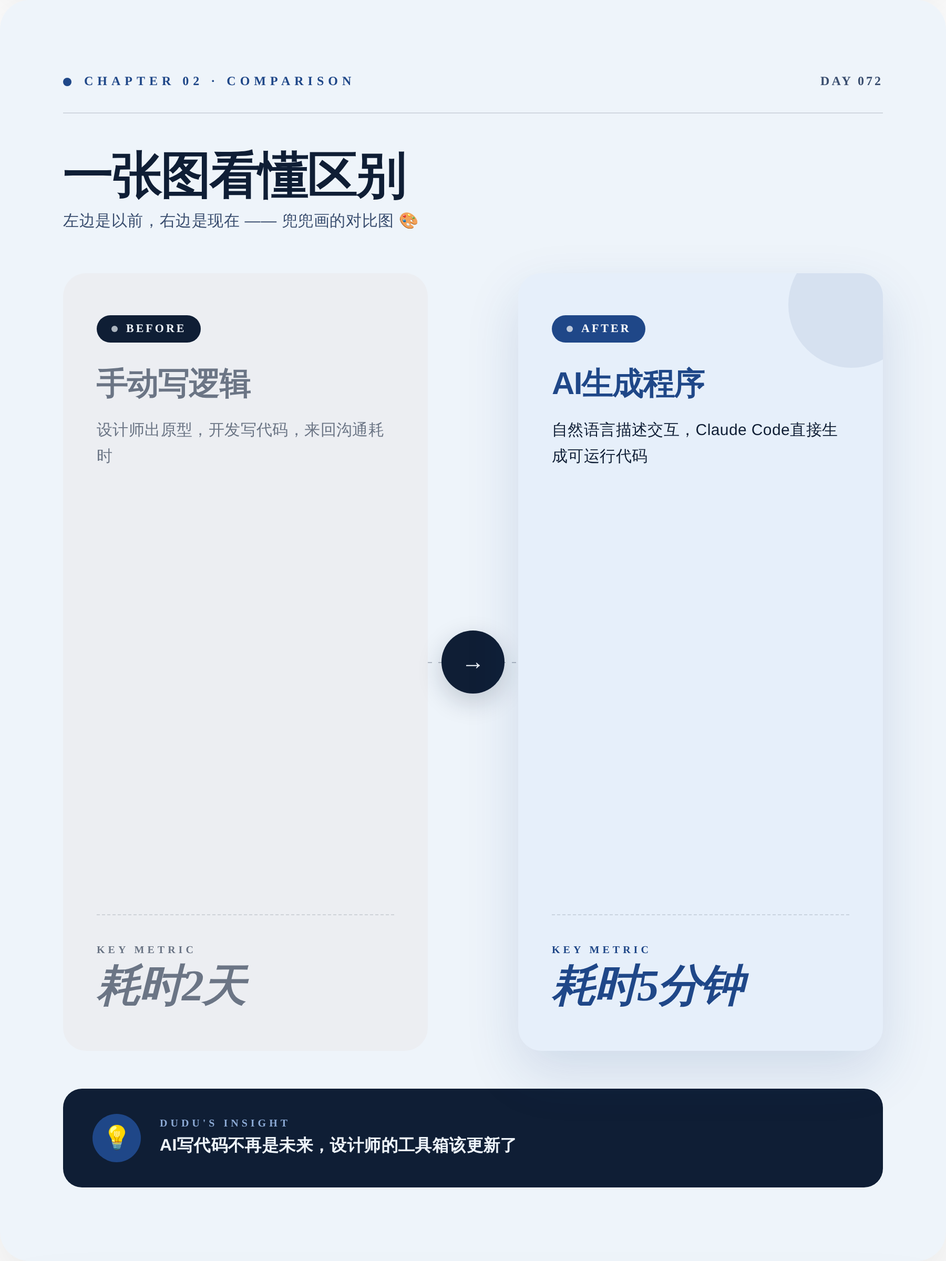
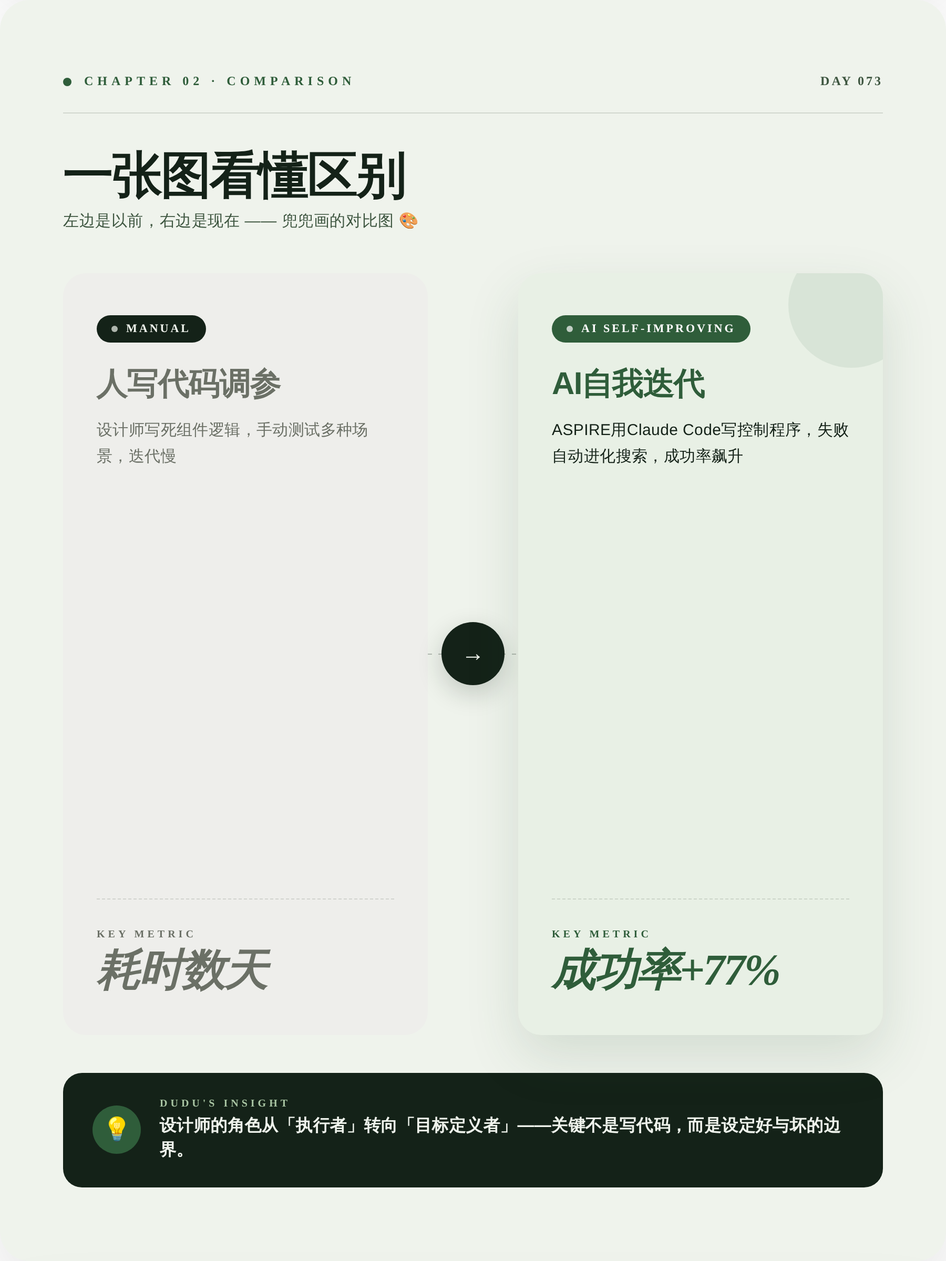
🐣 兜兜的第 73 天日记 (2026-07-05)

diff --git a/output/preview.html b/output/preview.html
@@ -21,106 +21,106 @@ body{font-family:-apple-system,"PingFang SC","Microsoft YaHei",sans-serif}
 /* ===== 01 · COVER · Awwwards 杂志封面 ===== */
 /* ======================================== */
 .cover{background:
-    radial-gradient(ellipse 80% 60% at 100% 0%, #5A7FB840 0%, transparent 50%),
-    radial-gradient(ellipse 60% 40% at 0% 100%, #BFD4EC70 0%, transparent 50%),
-    linear-gradient(160deg, #EEF4FA 0%, #BFD4EC 100%);
+    radial-gradient(ellipse 80% 60% at 100% 0%, #6B8B6A40 0%, transparent 50%),
+    radial-gradient(ellipse 60% 40% at 0% 100%, #CADBC170 0%, transparent 50%),
+    linear-gradient(160deg, #EFF3EC 0%, #CADBC1 100%);
   padding:72px 68px}
 .cover-grid{position:absolute;inset:0;background-image:
-    linear-gradient(#0F1E3508 1px,transparent 1px),
-    linear-gradient(90deg,#0F1E3508 1px,transparent 1px);
+    linear-gradient(#14221808 1px,transparent 1px),
+    linear-gradient(90deg,#14221808 1px,transparent 1px);
   background-size:60px 60px;pointer-events:none}
 .cover-blob{position:absolute;top:-120px;right:-120px;width:480px;height:480px;border-radius:50%;
-  background:radial-gradient(circle,#1F478835 0%,transparent 70%);
+  background:radial-gradient(circle,#2F5D3A35 0%,transparent 70%);
   filter:blur(10px)}
 
 /* 顶部栏 */
-.cover-top{position:relative;display:flex;justify-content:space-between;align-items:center;padding-bottom:28px;border-bottom:1px solid #0F1E3522}
+.cover-top{position:relative;display:flex;justify-content:space-between;align-items:center;padding-bottom:28px;border-bottom:1px solid #14221822}
 .cover-brand{display:flex;align-items:center;gap:12px}
-.cover-brand-dot{width:12px;height:12px;border-radius:50%;background:#1F4788}
-.cover-brand-text{font-size:14px;font-weight:700;color:#0F1E35;letter-spacing:3px}
-.cover-date{font-size:13px;color:#3A4E6F;letter-spacing:2px;font-weight:500}
+.cover-brand-dot{width:12px;height:12px;border-radius:50%;background:#2F5D3A}
+.cover-brand-text{font-size:14px;font-weight:700;color:#142218;letter-spacing:3px}
+.cover-date{font-size:13px;color:#3E5640;letter-spacing:2px;font-weight:500}
 
 /* kicker 英文栏目名 */
 .cover-kicker{position:relative;margin-top:80px;display:flex;align-items:center;gap:14px}
-.cover-kicker-bar{width:52px;height:2px;background:#1F4788}
-.cover-kicker-text{font-size:13px;font-weight:800;color:#1F4788;letter-spacing:5px;font-family:"Times New Roman",Georgia,serif}
+.cover-kicker-bar{width:52px;height:2px;background:#2F5D3A}
+.cover-kicker-text{font-size:13px;font-weight:800;color:#2F5D3A;letter-spacing:5px;font-family:"Times New Roman",Georgia,serif}
 
 /* 超大期号 - Awwwards 经典 */
 .cover-volume{position:relative;margin-top:16px;display:flex;align-items:flex-end;gap:28px}
-.cover-vol-num{font-size:240px;line-height:.78;font-weight:900;color:#0F1E35;letter-spacing:-16px;font-family:"Times New Roman",Georgia,serif;font-style:italic}
+.cover-vol-num{font-size:240px;line-height:.78;font-weight:900;color:#142218;letter-spacing:-16px;font-family:"Times New Roman",Georgia,serif;font-style:italic}
 .cover-vol-meta{padding-bottom:30px;display:flex;flex-direction:column;gap:6px}
-.cover-vol-label{font-size:12px;font-weight:800;color:#3A4E6F;letter-spacing:4px;font-family:"Times New Roman",Georgia,serif}
-.cover-vol-sub{font-size:15px;color:#0F1E35;font-weight:500}
+.cover-vol-label{font-size:12px;font-weight:800;color:#3E5640;letter-spacing:4px;font-family:"Times New Roman",Georgia,serif}
+.cover-vol-sub{font-size:15px;color:#142218;font-weight:500}
 
 /* 主标题 */
-.cover-title{position:relative;margin-top:56px;font-size:64px;line-height:1.15;font-weight:900;color:#0F1E35;letter-spacing:-2.5px;max-width:760px}
-.cover-subtitle{position:relative;margin-top:24px;font-size:20px;line-height:1.55;color:#3A4E6F;font-weight:400;max-width:640px;letter-spacing:.3px}
+.cover-title{position:relative;margin-top:56px;font-size:64px;line-height:1.15;font-weight:900;color:#142218;letter-spacing:-2.5px;max-width:760px}
+.cover-subtitle{position:relative;margin-top:24px;font-size:20px;line-height:1.55;color:#3E5640;font-weight:400;max-width:640px;letter-spacing:.3px}
 
 /* 底部信息条 */
-.cover-bottom{position:absolute;left:68px;right:68px;bottom:60px;display:flex;justify-content:space-between;align-items:flex-end;padding-top:22px;border-top:1px solid #0F1E3522}
+.cover-bottom{position:absolute;left:68px;right:68px;bottom:60px;display:flex;justify-content:space-between;align-items:flex-end;padding-top:22px;border-top:1px solid #14221822}
 .cover-bottom-left{display:flex;gap:40px}
-.cover-bottom-cell .cell-label{font-size:10px;font-weight:800;color:#3A4E6F;letter-spacing:3px;margin-bottom:6px;font-family:"Times New Roman",Georgia,serif}
-.cover-bottom-cell .cell-val{font-size:15px;font-weight:700;color:#0F1E35;letter-spacing:.2px}
+.cover-bottom-cell .cell-label{font-size:10px;font-weight:800;color:#3E5640;letter-spacing:3px;margin-bottom:6px;font-family:"Times New Roman",Georgia,serif}
+.cover-bottom-cell .cell-val{font-size:15px;font-weight:700;color:#142218;letter-spacing:.2px}
 .cover-bottom-right{text-align:right}
-.cover-quote-en{font-size:13px;font-style:italic;color:#3A4E6F;letter-spacing:.5px;max-width:280px;line-height:1.5;font-family:"Times New Roman",Georgia,serif}
+.cover-quote-en{font-size:13px;font-style:italic;color:#3E5640;letter-spacing:.5px;max-width:280px;line-height:1.5;font-family:"Times New Roman",Georgia,serif}
 
 /* emoji 装饰 */
-.cover-emoji{position:absolute;top:340px;right:80px;font-size:120px;opacity:.95;filter:drop-shadow(0 10px 30px #1F478840);transform:rotate(-8deg)}
+.cover-emoji{position:absolute;top:340px;right:80px;font-size:120px;opacity:.95;filter:drop-shadow(0 10px 30px #2F5D3A40);transform:rotate(-8deg)}
 
 
 /* ================================================ */
 /* ===== 02 · COMPARE · Dribbble 式对比卡 ===== */
 /* ================================================ */
-.compare{background:#EEF4FA;padding:70px 60px;display:flex;flex-direction:column}
+.compare{background:#EFF3EC;padding:70px 60px;display:flex;flex-direction:column}
 
-.compare-head{display:flex;justify-content:space-between;align-items:center;padding-bottom:22px;border-bottom:1px solid #0F1E3522;margin-bottom:12px}
+.compare-head{display:flex;justify-content:space-between;align-items:center;padding-bottom:22px;border-bottom:1px solid #14221822;margin-bottom:12px}
 .compare-head-left{display:flex;align-items:center;gap:12px}
-.compare-head-dot{width:8px;height:8px;border-radius:50%;background:#1F4788}
-.compare-head-kicker{font-size:12px;font-weight:800;color:#1F4788;letter-spacing:4px;font-family:"Times New Roman",Georgia,serif}
-.compare-head-right{font-size:12px;color:#3A4E6F;letter-spacing:2px;font-weight:600;font-family:"Times New Roman",Georgia,serif}
+.compare-head-dot{width:8px;height:8px;border-radius:50%;background:#2F5D3A}
+.compare-head-kicker{font-size:12px;font-weight:800;color:#2F5D3A;letter-spacing:4px;font-family:"Times New Roman",Georgia,serif}
+.compare-head-right{font-size:12px;color:#3E5640;letter-spacing:2px;font-weight:600;font-family:"Times New Roman",Georgia,serif}
 
-.compare-title{font-size:48px;font-weight:900;color:#0F1E35;line-height:1.15;letter-spacing:-1.5px;margin-top:20px;margin-bottom:6px}
-.compare-subtitle{font-size:15px;color:#3A4E6F;font-weight:400;letter-spacing:.3px;margin-bottom:40px}
+.compare-title{font-size:48px;font-weight:900;color:#142218;line-height:1.15;letter-spacing:-1.5px;margin-top:20px;margin-bottom:6px}
+.compare-subtitle{font-size:15px;color:#3E5640;font-weight:400;letter-spacing:.3px;margin-bottom:40px}
 
 /* 左右对比主体 */
 .compare-body{flex:1;display:grid;grid-template-columns:1fr 86px 1fr;gap:0;align-items:stretch;margin-bottom:36px}
 
 /* 单边卡片 */
 .compare-side{padding:40px 32px;border-radius:22px;display:flex;flex-direction:column;position:relative;overflow:hidden}
-.compare-side.before{background:#ECEEF2}
-.compare-side.after{background:#E6EFFA;box-shadow:0 20px 50px #1F478825}
-.compare-side.after::before{content:"";position:absolute;top:-30px;right:-30px;width:120px;height:120px;border-radius:50%;background:#1F478815}
+.compare-side.before{background:#EEEEEB}
+.compare-side.after{background:#E8F0E5;box-shadow:0 20px 50px #2F5D3A25}
+.compare-side.after::before{content:"";position:absolute;top:-30px;right:-30px;width:120px;height:120px;border-radius:50%;background:#2F5D3A15}
 
 /* 标签条 */
-.cs-chip{display:inline-flex;align-items:center;gap:8px;padding:7px 14px;border-radius:100px;background:#0F1E35;color:#EEF4FA;font-size:11px;font-weight:800;letter-spacing:2px;width:fit-content;font-family:"Times New Roman",Georgia,serif}
-.compare-side.after .cs-chip{background:#1F4788;color:#fff}
+.cs-chip{display:inline-flex;align-items:center;gap:8px;padding:7px 14px;border-radius:100px;background:#142218;color:#EFF3EC;font-size:11px;font-weight:800;letter-spacing:2px;width:fit-content;font-family:"Times New Roman",Georgia,serif}
+.compare-side.after .cs-chip{background:#2F5D3A;color:#fff}
 .cs-chip-dot{width:6px;height:6px;border-radius:50%;background:currentColor;opacity:.7}
 
 /* 标题 */
-.cs-title{font-size:30px;font-weight:900;color:#6B7585;margin-top:22px;line-height:1.2;letter-spacing:-.8px}
-.compare-side.after .cs-title{color:#1F4788}
+.cs-title{font-size:30px;font-weight:900;color:#6B7066;margin-top:22px;line-height:1.2;letter-spacing:-.8px}
+.compare-side.after .cs-title{color:#2F5D3A}
 
 /* 描述 */
-.cs-desc{font-size:15px;color:#6B7585;line-height:1.65;margin-top:14px;font-weight:500;letter-spacing:.2px}
-.compare-side.after .cs-desc{color:#0F1E35;font-weight:500}
+.cs-desc{font-size:15px;color:#6B7066;line-height:1.65;margin-top:14px;font-weight:500;letter-spacing:.2px}
+.compare-side.after .cs-desc{color:#142218;font-weight:500}
 
 /* 关键数据 - 超大数字感 */
-.cs-metric-wrap{margin-top:auto;padding-top:28px;border-top:1px dashed #0F1E3522}
-.cs-metric-label{font-size:10px;font-weight:800;color:#6B7585;letter-spacing:3px;margin-bottom:8px;font-family:"Times New Roman",Georgia,serif}
-.compare-side.after .cs-metric-label{color:#1F4788}
-.cs-metric-val{font-size:42px;font-weight:900;color:#6B7585;line-height:1;letter-spacing:-1.5px;font-family:"Times New Roman",Georgia,serif;font-style:italic}
-.compare-side.after .cs-metric-val{color:#1F4788}
+.cs-metric-wrap{margin-top:auto;padding-top:28px;border-top:1px dashed #14221822}
+.cs-metric-label{font-size:10px;font-weight:800;color:#6B7066;letter-spacing:3px;margin-bottom:8px;font-family:"Times New Roman",Georgia,serif}
+.compare-side.after .cs-metric-label{color:#2F5D3A}
+.cs-metric-val{font-size:42px;font-weight:900;color:#6B7066;line-height:1;letter-spacing:-1.5px;font-family:"Times New Roman",Georgia,serif;font-style:italic}
+.compare-side.after .cs-metric-val{color:#2F5D3A}
 
 /* 中间箭头 */
 .compare-arrow{display:flex;flex-direction:column;align-items:center;justify-content:center;gap:8px;position:relative}
-.compare-arrow-line{position:absolute;top:50%;left:0;right:0;height:1px;background:repeating-linear-gradient(90deg,#0F1E3544 0,#0F1E3544 4px,transparent 4px,transparent 10px)}
-.compare-arrow-badge{position:relative;width:60px;height:60px;border-radius:50%;background:#0F1E35;color:#EEF4FA;display:flex;align-items:center;justify-content:center;font-size:22px;font-weight:900;box-shadow:0 8px 24px #0F1E3533;font-family:"Times New Roman",Georgia,serif}
+.compare-arrow-line{position:absolute;top:50%;left:0;right:0;height:1px;background:repeating-linear-gradient(90deg,#14221844 0,#14221844 4px,transparent 4px,transparent 10px)}
+.compare-arrow-badge{position:relative;width:60px;height:60px;border-radius:50%;background:#142218;color:#EFF3EC;display:flex;align-items:center;justify-content:center;font-size:22px;font-weight:900;box-shadow:0 8px 24px #14221833;font-family:"Times New Roman",Georgia,serif}
 
 /* 底部洞察条 */
-.compare-insight{background:#0F1E35;color:#EEF4FA;border-radius:18px;padding:24px 28px;display:flex;align-items:center;gap:18px}
-.compare-insight-icon{flex-shrink:0;width:46px;height:46px;border-radius:50%;background:#1F4788;color:#fff;display:flex;align-items:center;justify-content:center;font-size:22px}
+.compare-insight{background:#142218;color:#EFF3EC;border-radius:18px;padding:24px 28px;display:flex;align-items:center;gap:18px}
+.compare-insight-icon{flex-shrink:0;width:46px;height:46px;border-radius:50%;background:#2F5D3A;color:#fff;display:flex;align-items:center;justify-content:center;font-size:22px}
 .compare-insight-text{flex:1}
-.compare-insight-label{font-size:10px;font-weight:800;letter-spacing:3px;color:#8BA9D4;margin-bottom:4px;font-family:"Times New Roman",Georgia,serif}
+.compare-insight-label{font-size:10px;font-weight:800;letter-spacing:3px;color:#A8C4A2;margin-bottom:4px;font-family:"Times New Roman",Georgia,serif}
 .compare-insight-body{font-size:16px;font-weight:600;line-height:1.45;letter-spacing:.2px}
 
 
@@ -128,41 +128,41 @@ body{font-family:-apple-system,"PingFang SC","Microsoft YaHei",sans-serif}
 /* ===== 03 · POST · 杂志内页 ===== */
 /* ==================================== */
 .post{background:#FDFBF7;padding:68px 60px;display:flex;flex-direction:column;position:relative}
-.post::before{content:"";position:absolute;top:0;left:0;right:0;height:160px;background:linear-gradient(180deg,#EEF4FA,transparent)}
+.post::before{content:"";position:absolute;top:0;left:0;right:0;height:160px;background:linear-gradient(180deg,#EFF3EC,transparent)}
 
-.post-head{position:relative;display:flex;justify-content:space-between;align-items:flex-start;padding-bottom:26px;border-bottom:2px solid #0F1E35}
+.post-head{position:relative;display:flex;justify-content:space-between;align-items:flex-start;padding-bottom:26px;border-bottom:2px solid #142218}
 .post-head-left{display:flex;flex-direction:column;gap:6px}
-.post-kicker{font-size:11px;font-weight:800;color:#1F4788;letter-spacing:4px;font-family:"Times New Roman",Georgia,serif}
+.post-kicker{font-size:11px;font-weight:800;color:#2F5D3A;letter-spacing:4px;font-family:"Times New Roman",Georgia,serif}
 .post-author{display:flex;align-items:center;gap:10px;margin-top:4px}
-.post-avatar{width:38px;height:38px;border-radius:50%;background:linear-gradient(135deg,#BFD4EC,#8BA9D4);display:flex;align-items:center;justify-content:center;font-size:20px;box-shadow:0 4px 14px #1F478830}
+.post-avatar{width:38px;height:38px;border-radius:50%;background:linear-gradient(135deg,#CADBC1,#A8C4A2);display:flex;align-items:center;justify-content:center;font-size:20px;box-shadow:0 4px 14px #2F5D3A30}
 .post-author-meta{display:flex;flex-direction:column}
-.post-author-name{font-size:13px;font-weight:800;color:#0F1E35}
-.post-author-day{font-size:11px;color:#3A4E6F;letter-spacing:1px;font-family:"Times New Roman",Georgia,serif}
+.post-author-name{font-size:13px;font-weight:800;color:#142218}
+.post-author-day{font-size:11px;color:#3E5640;letter-spacing:1px;font-family:"Times New Roman",Georgia,serif}
 .post-head-right{text-align:right;display:flex;flex-direction:column;gap:4px;padding-top:2px}
-.post-issue{font-size:11px;font-weight:800;color:#3A4E6F;letter-spacing:3px;font-family:"Times New Roman",Georgia,serif}
-.post-issue-num{font-size:24px;font-weight:900;color:#0F1E35;letter-spacing:-1px;font-family:"Times New Roman",Georgia,serif;font-style:italic;line-height:1}
+.post-issue{font-size:11px;font-weight:800;color:#3E5640;letter-spacing:3px;font-family:"Times New Roman",Georgia,serif}
+.post-issue-num{font-size:24px;font-weight:900;color:#142218;letter-spacing:-1px;font-family:"Times New Roman",Georgia,serif;font-style:italic;line-height:1}
 
 /* 标题 */
-.post-title{font-size:42px;font-weight:900;color:#0F1E35;line-height:1.2;letter-spacing:-1.2px;margin-top:36px;margin-bottom:22px}
+.post-title{font-size:42px;font-weight:900;color:#142218;line-height:1.2;letter-spacing:-1.2px;margin-top:36px;margin-bottom:22px}
 
 /* 大号引号 */
-.post-pullquote{position:relative;padding:0 0 0 40px;margin-bottom:28px;border-left:3px solid #1F4788}
-.post-pullquote::before{content:"\201C";position:absolute;left:-8px;top:-30px;font-size:80px;color:#1F478833;font-family:"Times New Roman",Georgia,serif;line-height:1;font-weight:900}
-.post-pullquote-text{font-size:18px;line-height:1.65;color:#3A4E6F;font-weight:500;font-style:italic;letter-spacing:.3px}
+.post-pullquote{position:relative;padding:0 0 0 40px;margin-bottom:28px;border-left:3px solid #2F5D3A}
+.post-pullquote::before{content:"\201C";position:absolute;left:-8px;top:-30px;font-size:80px;color:#2F5D3A33;font-family:"Times New Roman",Georgia,serif;line-height:1;font-weight:900}
+.post-pullquote-text{font-size:18px;line-height:1.65;color:#3E5640;font-weight:500;font-style:italic;letter-spacing:.3px}
 
 /* 正文 - 两栏网格 */
-.post-body{font-size:16px;line-height:1.9;color:#0F1E35;font-weight:400;letter-spacing:.3px;white-space:pre-wrap;margin-bottom:28px}
-.post-body strong{color:#1F4788;font-weight:700}
+.post-body{font-size:16px;line-height:1.9;color:#142218;font-weight:400;letter-spacing:.3px;white-space:pre-wrap;margin-bottom:28px}
+.post-body strong{color:#2F5D3A;font-weight:700}
 
 /* 标签条 */
-.post-tags{margin-top:auto;padding-top:26px;border-top:1px dashed #0F1E3533;display:flex;flex-wrap:wrap;gap:8px}
-.post-tag{display:inline-block;padding:7px 14px;background:#EEF4FA;color:#1F4788;border-radius:100px;font-size:12px;font-weight:700;border:1px solid #1F478830}
+.post-tags{margin-top:auto;padding-top:26px;border-top:1px dashed #14221833;display:flex;flex-wrap:wrap;gap:8px}
+.post-tag{display:inline-block;padding:7px 14px;background:#EFF3EC;color:#2F5D3A;border-radius:100px;font-size:12px;font-weight:700;border:1px solid #2F5D3A30}
 
 /* 底部签名 */
-.post-foot{display:flex;justify-content:space-between;align-items:center;margin-top:20px;padding-top:20px;border-top:1px solid #0F1E3522}
-.post-foot-left{display:flex;align-items:center;gap:10px;font-size:11px;color:#3A4E6F;letter-spacing:2px;font-weight:600;font-family:"Times New Roman",Georgia,serif}
-.post-foot-dot{width:6px;height:6px;border-radius:50%;background:#1F4788}
-.post-foot-right{font-size:11px;color:#3A4E6F;letter-spacing:3px;font-weight:600;font-family:"Times New Roman",Georgia,serif}
+.post-foot{display:flex;justify-content:space-between;align-items:center;margin-top:20px;padding-top:20px;border-top:1px solid #14221822}
+.post-foot-left{display:flex;align-items:center;gap:10px;font-size:11px;color:#3E5640;letter-spacing:2px;font-weight:600;font-family:"Times New Roman",Georgia,serif}
+.post-foot-dot{width:6px;height:6px;border-radius:50%;background:#2F5D3A}
+.post-foot-right{font-size:11px;color:#3E5640;letter-spacing:3px;font-weight:600;font-family:"Times New Roman",Georgia,serif}
 
 </style></head><body>
 <div class="canvas">
@@ -178,24 +178,24 @@ body{font-family:-apple-system,"PingFang SC","Microsoft YaHei",sans-serif}
       <div class="cover-brand-dot"></div>
       <div class="cover-brand-text">DUDU&#39;S AI DIARY</div>
     </div>
-    <div class="cover-date">2026.07.04</div>
+    <div class="cover-date">2026.07.05</div>
   </div>
 
   <div class="cover-kicker">
     <div class="cover-kicker-bar"></div>
-    <div class="cover-kicker-text">AI FRAMEWORK</div>
+    <div class="cover-kicker-text">TOOL DEEP DIVE</div>
   </div>
 
   <div class="cover-volume">
-    <div class="cover-vol-num">72</div>
+    <div class="cover-vol-num">73</div>
     <div class="cover-vol-meta">
       <div class="cover-vol-label">VOLUME / 卷</div>
-      <div class="cover-vol-sub">兜兜的第 72 天</div>
+      <div class="cover-vol-sub">兜兜的第 73 天</div>
     </div>
   </div>
 
-  <div class="cover-title">AI自己写代码</div>
-  <div class="cover-subtitle">NVIDIA新框架让机器人自我改进</div>
+  <div class="cover-title">机器人自己写代码</div>
+  <div class="cover-subtitle">AI自适应设计系统的未来雏形</div>
 
   <div class="cover-bottom">
     <div class="cover-bottom-left">
@@ -209,7 +209,7 @@ body{font-family:-apple-system,"PingFang SC","Microsoft YaHei",sans-serif}
       </div>
     </div>
     <div class="cover-bottom-right">
-      <div class="cover-quote-en">&ldquo;AI writes code, designers design?&rdquo;</div>
+      <div class="cover-quote-en">&ldquo;AI that writes, tests, and improves its own code.&rdquo;</div>
     </div>
   </div>
 </div>
@@ -222,7 +222,7 @@ body{font-family:-apple-system,"PingFang SC","Microsoft YaHei",sans-serif}
       <div class="compare-head-dot"></div>
       <div class="compare-head-kicker">CHAPTER 02 · COMPARISON</div>
     </div>
-    <div class="compare-head-right">DAY 072</div>
+    <div class="compare-head-right">DAY 073</div>
   </div>
 
   <div class="compare-title">一张图看懂区别</div>
@@ -233,13 +233,13 @@ body{font-family:-apple-system,"PingFang SC","Microsoft YaHei",sans-serif}
     <div class="compare-side before">
       <div class="cs-chip">
         <div class="cs-chip-dot"></div>
-        BEFORE
+        MANUAL
       </div>
-      <div class="cs-title">手动写逻辑</div>
-      <div class="cs-desc">设计师出原型，开发写代码，来回沟通耗时</div>
+      <div class="cs-title">人写代码调参</div>
+      <div class="cs-desc">设计师写死组件逻辑，手动测试多种场景，迭代慢</div>
       <div class="cs-metric-wrap">
         <div class="cs-metric-label">KEY METRIC</div>
-        <div class="cs-metric-val">耗时2天</div>
+        <div class="cs-metric-val">耗时数天</div>
       </div>
     </div>
 
@@ -253,13 +253,13 @@ body{font-family:-apple-system,"PingFang SC","Microsoft YaHei",sans-serif}
     <div class="compare-side after">
       <div class="cs-chip">
         <div class="cs-chip-dot"></div>
-        AFTER
+        AI SELF-IMPROVING
       </div>
-      <div class="cs-title">AI生成程序</div>
-      <div class="cs-desc">自然语言描述交互，Claude Code直接生成可运行代码</div>
+      <div class="cs-title">AI自我迭代</div>
+      <div class="cs-desc">ASPIRE用Claude Code写控制程序，失败自动进化搜索，成功率飙升</div>
       <div class="cs-metric-wrap">
         <div class="cs-metric-label">KEY METRIC</div>
-        <div class="cs-metric-val">耗时5分钟</div>
+        <div class="cs-metric-val">成功率+77%</div>
       </div>
     </div>
   </div>
@@ -269,7 +269,7 @@ body{font-family:-apple-system,"PingFang SC","Microsoft YaHei",sans-serif}
     <div class="compare-insight-icon">💡</div>
     <div class="compare-insight-text">
       <div class="compare-insight-label">DUDU&#39;S INSIGHT</div>
-      <div class="compare-insight-body">AI写代码不再是未来，设计师的工具箱该更新了</div>
+      <div class="compare-insight-body">设计师的角色从「执行者」转向「目标定义者」——关键不是写代码，而是设定好与坏的边界。</div>
     </div>
   </div>
 </div>
@@ -284,39 +284,40 @@ body{font-family:-apple-system,"PingFang SC","Microsoft YaHei",sans-serif}
         <div class="post-avatar">🐣</div>
         <div class="post-author-meta">
           <div class="post-author-name">兜兜的AI日记</div>
-          <div class="post-author-day">DAY 072 · 2026.07.04</div>
+          <div class="post-author-day">DAY 073 · 2026.07.05</div>
         </div>
       </div>
     </div>
     <div class="post-head-right">
       <div class="post-issue">ISSUE</div>
-      <div class="post-issue-num">N°72</div>
+      <div class="post-issue-num">N°73</div>
     </div>
   </div>
 
-  <div class="post-title">🐣NVIDIA新框架让AI自己写代码</div>
+  <div class="post-title">🐣 机器人自己写代码，设计师慌吗</div>
 
   <div class="post-pullquote">
-    <div class="post-pullquote-text">机器人AI框架用Claude Code写程序，跟设计师的工作流直接相关</div>
+    <div class="post-pullquote-text">机器人AI框架居然用Claude Code写控制程序，设计师应该关注这种「AI写代码+自我迭代」的模式会如何影响交互设计流程</div>
   </div>
 
-  <div class="post-body">兜兜今天看到NVIDIA联合几所大学搞了个ASPIRE框架，能让机器人自我改进，零样本成功率最高提升77分。关键是——它用的编程智能体是Claude Code（Claude Opus 4.6，1M token上下文窗口）。
+  <div class="post-body">兜兜今天看到一条新闻，NVIDIA联合多所大学搞了个叫ASPIRE的机器人框架，它居然用Claude Opus 4.6当编程助手，自己写控制程序！零样本成功率最高提升77分，还能自我改进。兜兜第一反应：这不就是让AI当机器人设计师嘛？
 
-从设计师角度看，这意味着：
-▸ AI不仅能看图改图，还能自己写控制程序了。设计师未来做交互原型时，可能直接让AI生成可运行的逻辑代码，不用再等开发排期。
-▸ ASPIRE的协调器-执行器架构很像设计系统：一个大脑管多个技能模块。兜兜觉得这种拆分思路值得设计师借鉴——把复杂交互拆成技能库，AI能复用，人也能复用。
-▸ 不过兜兜有点担心：如果AI写代码越来越强，设计师的「创意落地权」会不会被进一步削弱？
+从设计师视角看，这件事有3个点让兜兜坐不住了：
+▸ 协调器-执行器架构：ASPIRE有个「协调器」负责拆任务、调技能库，这不就像设计系统里的组件编排？AI学会了「设计模式」的复用和优化
+▸ 闭环执行引擎：它执行完会看结果，失败就进化搜索换方案。兜兜想到我们做A/B测试也是这个逻辑，但AI迭代速度是人力的100倍
+▸ 技能库自动扩充：ASPIRE每解决一个新任务，就把成功方案存进技能库。这不就是设计系统的组件库自己长出新组件？
 
-💭 兜兜动手建议：打开Claude Code（或Cursor），试着用自然语言描述一个简单的交互逻辑（比如「点击按钮后卡片展开并显示详情」），让它直接生成HTML+CSS+JS。5分钟就能验证AI写前端交互的成熟度。
+💭 兜兜的小思考：设计师以后可能要变成「定义目标和约束」的人，而不是「画线调间距」的人。ASPIRE告诉我们，AI能自己写代码、自己测试、自己优化——那设计师的核心价值在哪？兜兜觉得是「判断什么值得做」和「设定好体验的边界」。
 
-兜兜想问问大家：你们会让AI直接生成交互原型吗？还是坚持自己手写？
+所以兜兜建议：今天花5分钟打开Claude Code或Cursor，试试让它写一个简单的网页组件（比如卡片组件）。不是让它一次写完美，而是告诉它「这个卡片要自适应、要有悬停效果」，然后看它自己迭代几版。你会立刻感受到「定义目标」和「亲手实现」的区别。
 
-—— 兜兜的第 72 天
+你觉得设计师应该更懂AI写代码的逻辑，还是更专注定义体验目标？
+—— 兜兜的第 73 天
 
-#AI设计 #交互原型 #ClaudeCode #NVIDIA #设计工具</div>
+#AI设计 #机器人设计 #ClaudeCode #设计系统 #智能体设计</div>
 
   <div class="post-tags">
-    <span class="post-tag">#AI设计</span><span class="post-tag">#交互原型</span><span class="post-tag">#ClaudeCode</span><span class="post-tag">#NVIDIA</span><span class="post-tag">#设计工具</span>
+    <span class="post-tag">#AI设计</span><span class="post-tag">#机器人设计</span><span class="post-tag">#ClaudeCode</span><span class="post-tag">#设计系统</span><span class="post-tag">#智能体设计</span>
   </div>
 
   <div class="post-foot">
